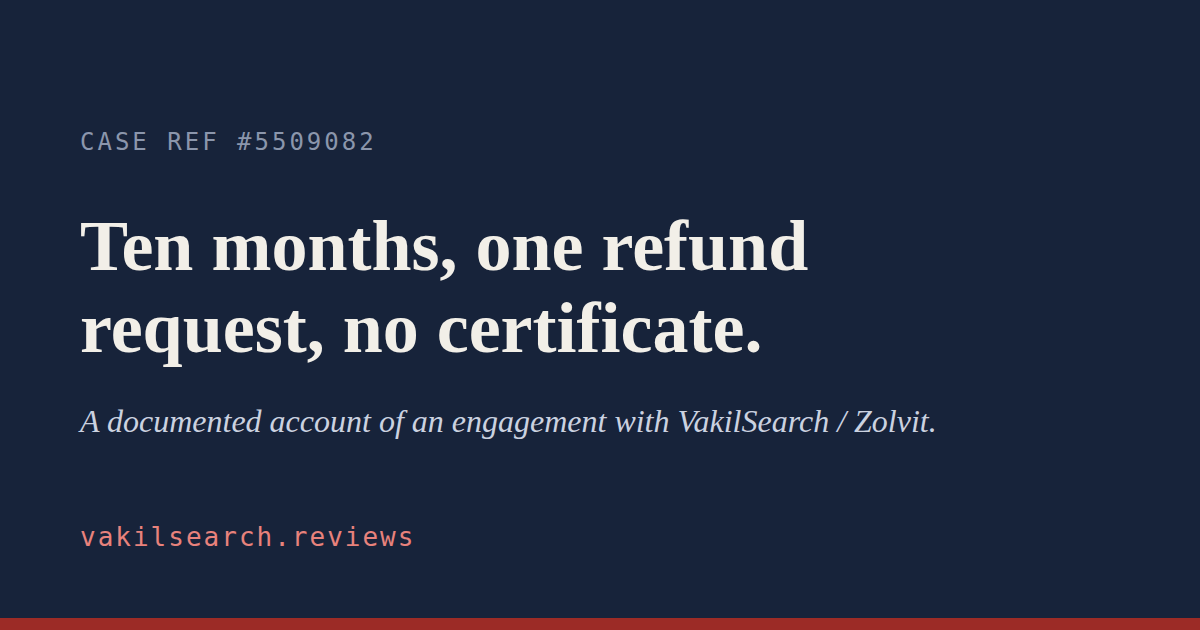
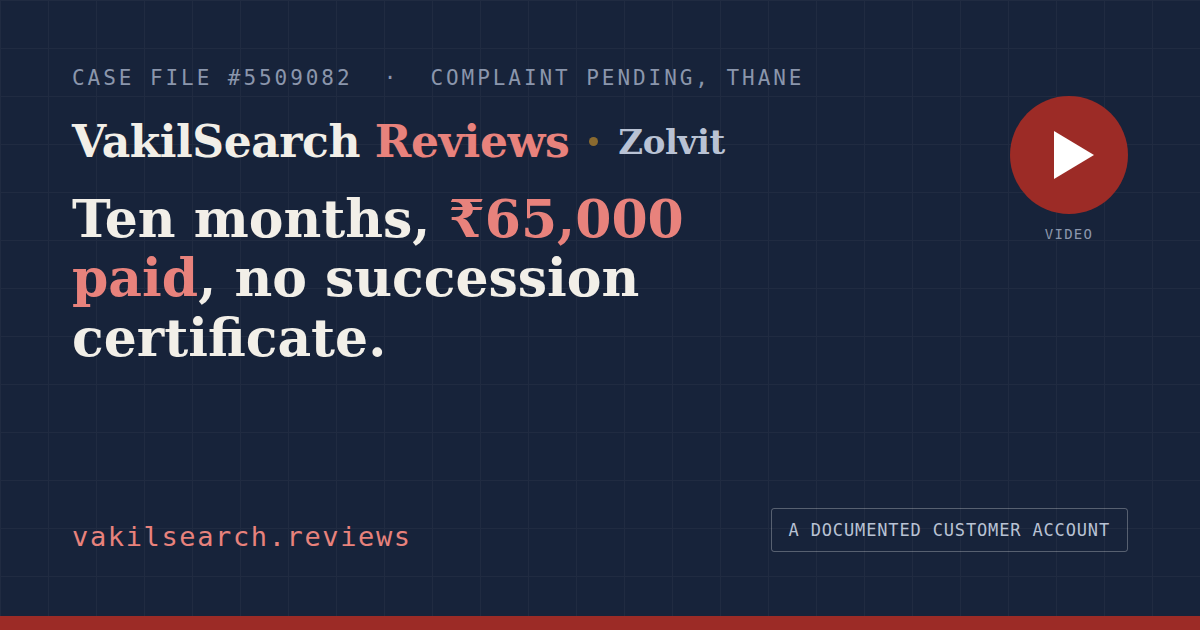
Rebuild the social preview card around the brand names (#6)
VakilSearch Reviews and Zolvit set prominently, a video play mark, and a
reproducible HTML source rendered by `npm run og`.

diff --git a/build/og/card.html b/build/og/card.html
@@ -1,0 +1,81 @@
+<!-- Source for public/assets/img/og-image.png (the social preview card).
+     Rendered at exactly 1200x630 by `npm run og`. Edit here, not the PNG. -->
+<style>
+  *{box-sizing:border-box;margin:0;padding:0;}
+  body{
+    width:1200px;height:630px;overflow:hidden;position:relative;
+    background:#17233A;color:#F2EFE8;
+    font-family:"DejaVu Serif",Georgia,serif;
+  }
+  .grid{
+    position:absolute;inset:0;
+    background-image:
+      linear-gradient(#EEEAE0 1px,transparent 1px),
+      linear-gradient(90deg,#EEEAE0 1px,transparent 1px);
+    background-size:48px 48px;opacity:.04;
+  }
+  .bar{position:absolute;left:0;right:0;bottom:0;height:14px;background:#9C2B26;}
+  .inner{
+    position:relative;height:100%;padding:66px 72px 78px;
+    display:flex;flex-direction:column;justify-content:space-between;
+  }
+  .mono{font-family:"DejaVu Sans Mono",monospace;}
+  .kicker{
+    font-size:21px;letter-spacing:.14em;color:#8B96AC;text-transform:uppercase;
+  }
+  .brands{
+    display:flex;align-items:center;gap:20px;margin:26px 0 22px;
+  }
+  .brand{
+    font-size:44px;font-weight:700;letter-spacing:-.01em;color:#F2EFE8;
+  }
+  .brand .rev{color:#E8827C;}
+  .dot{width:9px;height:9px;border-radius:50%;background:#8A6A2F;flex:none;}
+  .headline{
+    font-size:52px;line-height:1.14;font-weight:600;max-width:19ch;
+  }
+  .headline em{font-style:normal;color:#E8827C;}
+  .foot{display:flex;align-items:flex-end;justify-content:space-between;gap:30px;}
+  .domain{font-size:27px;letter-spacing:.06em;color:#E8827C;}
+  .stamp{
+    border:1.5px solid rgba(255,255,255,.28);border-radius:3px;
+    padding:11px 17px;font-size:17px;letter-spacing:.05em;color:#B9C2D4;
+    text-transform:uppercase;
+  }
+  .play{
+    position:absolute;right:72px;top:96px;
+    width:118px;height:118px;border-radius:50%;background:#9C2B26;
+  }
+  .play::after{
+    content:"";position:absolute;top:50%;left:54%;transform:translate(-50%,-50%);
+    border-style:solid;border-width:24px 0 24px 40px;
+    border-color:transparent transparent transparent #fff;
+  }
+  .playcap{
+    position:absolute;right:72px;top:226px;width:118px;text-align:center;
+    font-size:14px;letter-spacing:.09em;color:#8B96AC;text-transform:uppercase;
+  }
+</style>
+
+<div class="grid"></div>
+<div class="play"></div>
+<div class="playcap mono">Video</div>
+
+<div class="inner">
+  <div>
+    <div class="kicker mono">Case file #5509082 &nbsp;·&nbsp; Complaint pending, Thane</div>
+    <div class="brands">
+      <span class="brand">VakilSearch <span class="rev">Reviews</span></span>
+      <span class="dot"></span>
+      <span class="brand" style="font-size:34px;color:#B9C2D4;">Zolvit</span>
+    </div>
+    <div class="headline">Ten months, <em>&#8377;65,000 paid</em>, no succession certificate.</div>
+  </div>
+
+  <div class="foot">
+    <span class="domain mono">vakilsearch.reviews</span>
+    <span class="stamp mono">A documented customer account</span>
+  </div>
+</div>
+
+<div class="bar"></div>

diff --git a/README.md b/README.md
@@ -17,6 +17,8 @@ build/                 Page sources — edit here, never edit public/ directly
   pages/*.mjs            One module per page
   build.mjs              Renders build/ -> public/, plus sitemap.xml and robots.txt
   check.mjs              Link, metadata and third-party-asset checks
+  og/card.html           Source for the social preview image
+  og/render.mjs          Renders that card to public/assets/img/og-image.png
 public/                Generated output — this is what Cloudflare Pages serves
   _headers               Security headers and cache policy
   _redirects             Path-level redirects
@@ -30,7 +32,12 @@ public/                Generated output — this is what Cloudflare Pages serves
 npm run build     # regenerate public/ from build/
 npm run check     # verify links, titles, descriptions, canonicals, no external assets
 npm run dev       # build, then serve public/ on http://localhost:8080
+npm run og        # re-render the social preview card (needs: npm i -D playwright)
 ```
+
+`playwright` is deliberately not a dependency — it would pull a browser down on
+every deploy build. Install it ad hoc on the rare occasion the card changes; the
+rendered PNG is committed.
 
 Always run `npm run build` after editing anything under `build/` and commit the
 resulting `public/` changes — CI fails if the two are out of sync.
@@ -41,6 +48,7 @@ resulting `public/` changes — CI fails if the two are out of sync.
 | --- | --- |
 | Add a timeline entry | `build/content/timeline.mjs` |
 | Change the embedded video, its title or blurb | `build/content/video.mjs` |
+| Change the social preview image | `build/og/card.html`, then `npm run og` |
 | Log a development or a correction | `build/pages/updates.mjs` |
 | Update complaint status | `build/pages/complaint.mjs` |
 | Change the "last updated" date | `build/site.config.mjs` |
